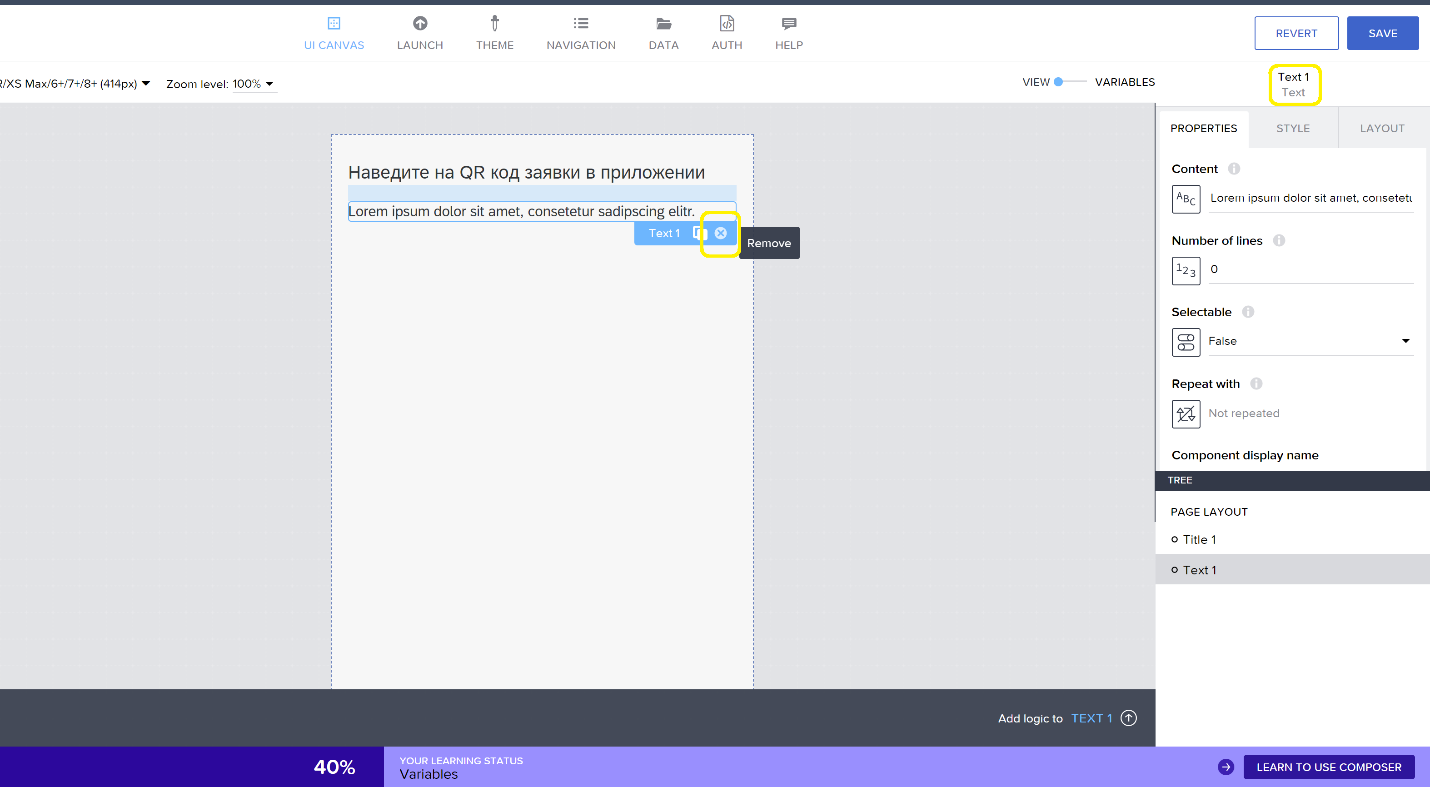
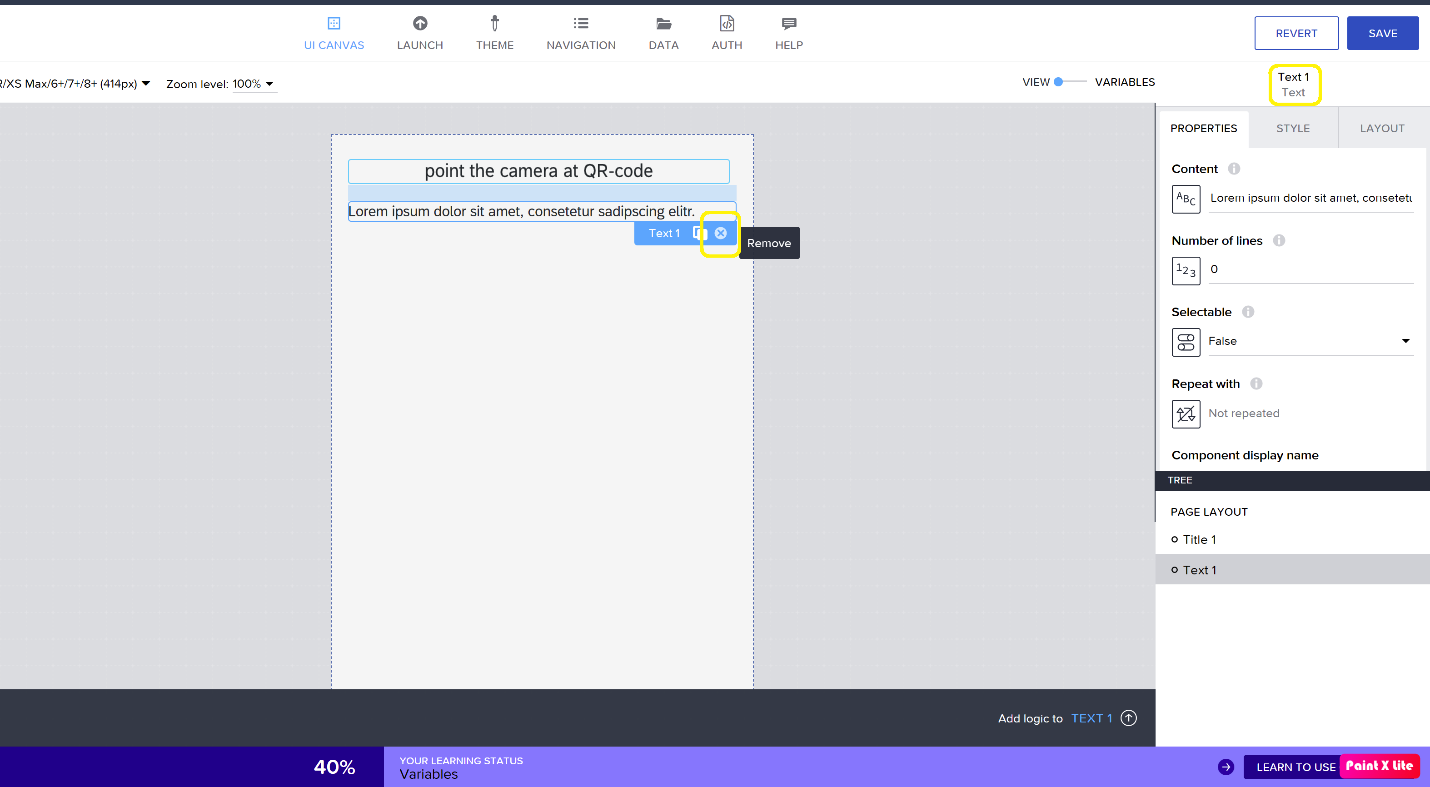
Guided EN folder v04

Changed region(s): [[0.2462, 0.9454, 1.0, 1.0], [0.2462, 0.183, 0.4923, 0.244]]

diff --git a/Guided_Script_EN/README.md b/Guided_Script_EN/README.md
@@ -22,16 +22,16 @@ Choose **Build an Application**.\
 Next, select **Web & Mobile Application**\
 ![Name the project](./media/image5.png)
 
-For the *Project Name*, specify a name based on your user, such as **mob_app_ws_user(?),** add a comment in the description, and then click **Create** to initiate working on your application.\
+For the *Project Name*, specify a name based on your user, such as **mobile_app_ws_user(?),** add a comment in the description, and then click **Create** to start working on your application.\
 \
 ![](./media/image6.png)
 
 # Step 2 «Opening the Project, Home Page»: 
 
-Upon completing Step 1, you will be redirected to the Build Apps Composer editor, which serves as a kind of IDE (Integrated Development Environment) for SAP Build Apps. On the canvas, you can already see the initial **Home page** of your application with fields for the title and text:\
+Upon completing Step 1, you will be redirected to the Build Apps Composer editor, which is a kind of IDE (Integrated Development Environment) for SAP Build Apps. On the canvas, you can already see the initial **Home page** of your application with fields for the title and text:\
 ![](./media/image7.png)
 
-On the left, you will find elements that can be added to the canvas. On the right, there is a properties panel for the selected element, and at the bottom right, you will find the structure of elements on the canvas. Below, there is a panel for adding logic to the elements.
+On the left, you will find elements that can be added to the canvas. On the right, there is a properties panel for the selected element, and at the bottom right, you will find the tree of elements on the canvas. Below, there is a panel for adding logic to the elements.
 
 In summary, building your application involves:
 
@@ -68,19 +68,19 @@ In this step, we will focus on connecting our application to data sources. Follo
 4. The configurator, using the metadata information, has identified 2 entities: **Request** and **Blobstorage**. Activate both of them:
    ![](./media/image11.png)
 
-5. For these entities, settings for standard access methods (GET, POST, UPDATE, etc.) will appear. Save the configurations by clicking **SAVE DATA RESOURCES**:
+5. For these entities, settings for standard access methods (GET, POST, UPDATE, etc.) will appear. Save the default settigs by clicking **SAVE DATA RESOURCES**:
    ![](./media/image12.png)
 
-6. As a result, the project will now have access methods defined for the 2 API server entities: **Request** (a table of requests) and **Blobstorage** (a table of blob objects with UUIDs from requests).
+6. As a result, the project will now have defined access methods for the 2 API services: **Request** (a table of requests) and **Blobstorage** (a table of blob objects with UUIDs from requests).
 
    The outcome should look like this:
    ![](./media/image13.png)
 
-# Step 4 «Building the app: creating UI pages»:
+# Step 4 «Building the app: creating app pages»:
 
-In accordance with the application architecture, we need to create two application pages: "Home Page" and "Photo Page." Follow the steps below to create these pages:
+In accordance with the application architecture, we need to create two application pages: "**Home Page**" and "**Photo Page**." Follow the steps below to create these pages:
 
-1. Click on the link labeled "Home Page":
+1. Click on the link labeled "**Home Page**":
    ![Home Page Link](./media/image14.png)
 
 2. The configurator will open, and you need to add the second page. Click on **ADD NEW PAGE**:
@@ -95,13 +95,13 @@ In accordance with the application architecture, we need to create two applicati
 
 # Step 5 «Building the app: adding UI elements to the first page»:
 
-Navigate to the first page of the application by clicking on **Home page** in the navigation link, and then on the actual "Home page" itself (you may need to click **SAVE** if the previous changes were not saved):
+Navigate to the first page of the application by clicking on **Home page** in the navigation link, and then on the actual "**Home page**" itself (you may need to click **SAVE** if the previous changes were not saved):
 
 ![Navigation to Home Page](./media/image18.png)
 
 ![Home Page](./media/image19.png)
 
-Select the *Headerline* and change the text to the following: "***Hover over the QR code in the application***":
+Select the *Headerline* and change the text to the following: "***Point the camera at QR-code***":
 
 ![Headerline](./media/image20.png)
 
@@ -380,7 +380,7 @@ The application will launch:
 
 6. Access the portal and open the **Reception** tab:
 
-[Reception Portal](https://samruktest-gdpazdel.workzone.cfapps.eu10.hana.ondemand.com/site#workzone-home&/home)
+[Reception Portal](https://samruktest-gdpazdel.workzone.cfapps.eu10.hana.ondemand.com/site#workzone-home&/workpages/rYR9XbhxTRa1KE6OapUqCe)
 
 In the list, find your request, enter it, scan the QR code on your mobile device, and take a photo.
 
